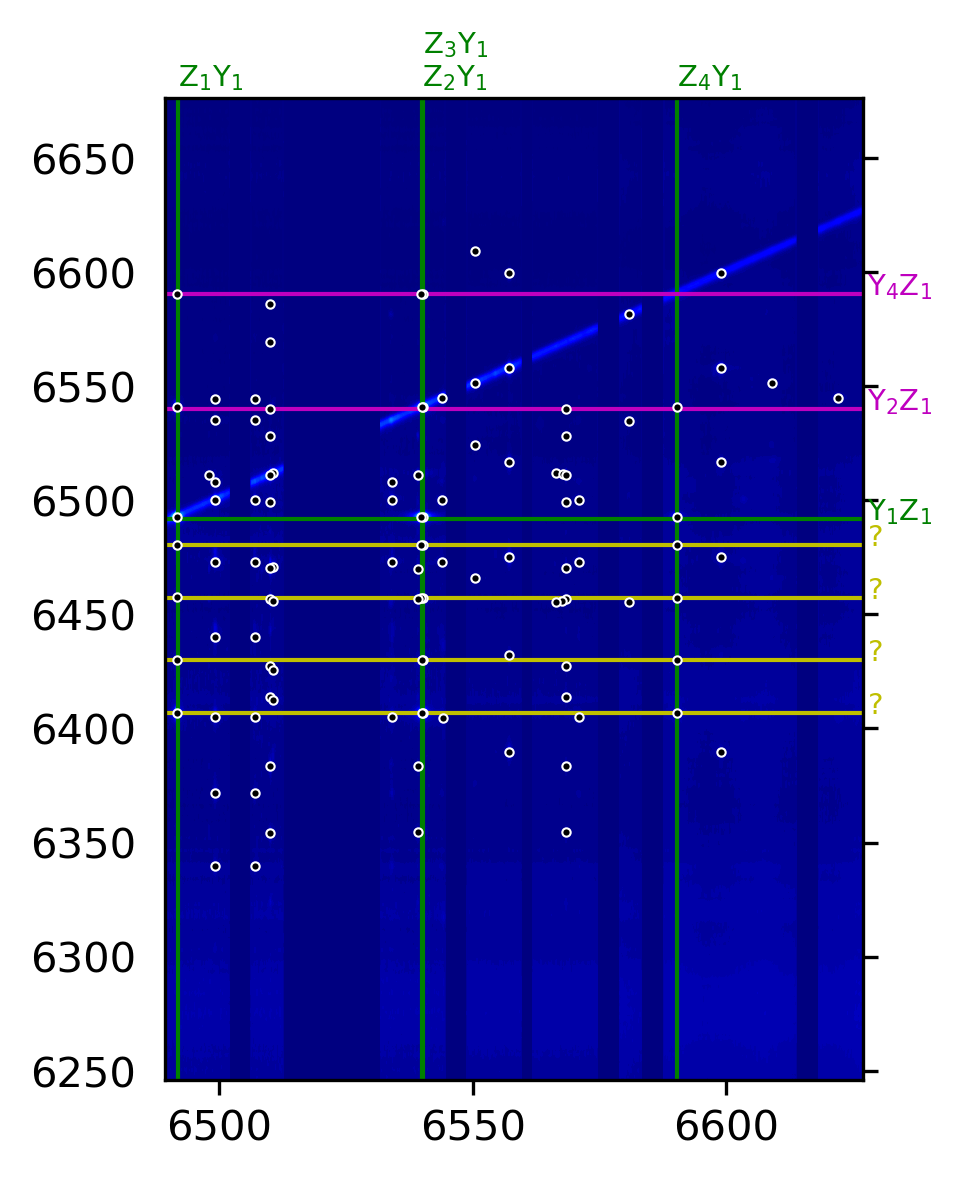
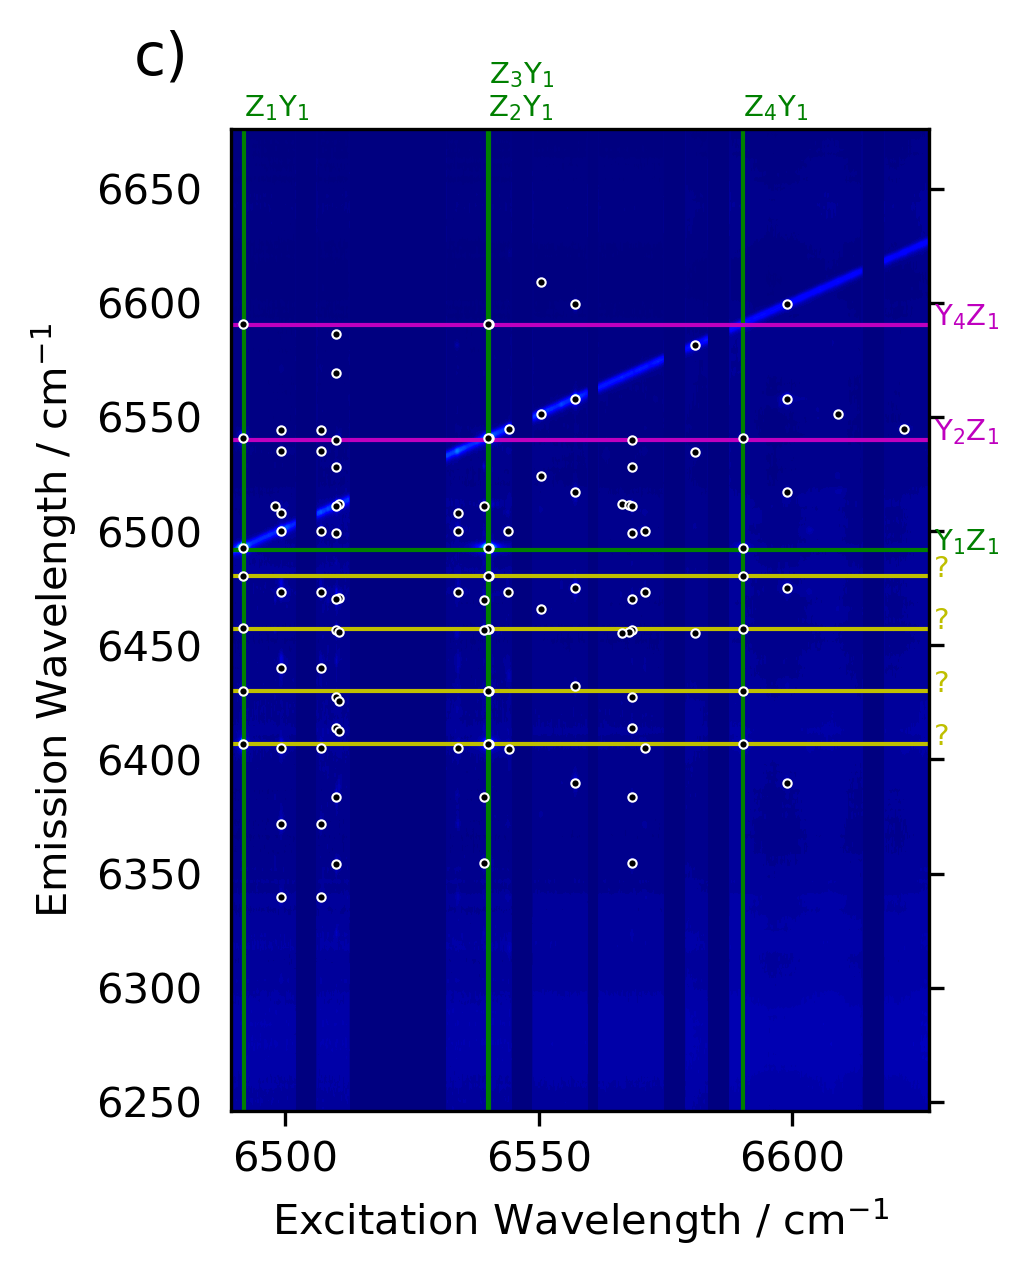
Add axes labels

Changed region(s): [[0.0312, 0.0305, 0.9667, 0.9771], [0.5925, 0.6718, 0.6237, 0.7023]]

diff --git a/JinD.py b/JinD.py
@@ -28,8 +28,6 @@ def prep(folder):
 def plotspec(data, fmt):
     if fmt == "small":
         sm.plot_spectra(data, figsize=(3, 4.25))
-        plt.xlabel("")
-        plt.ylabel("")
     else:
         sm.plot_spectra(data, figsize=(6, 8))
 
@@ -110,6 +108,20 @@ if figtype == "spectrum":
     peaks, spectra = prep(folder)
     plotspec(spectra, size)
     save("Figures/JinD_spectrum_%dK.png" % temp, resolution)
+    plt.show()
+
+##################################################
+if figtype == "sidebands":
+    temp = temps[int(sys.argv[2])]
+    folder = folders[int(sys.argv[2])]
+    size = sys.argv[3]
+    resolution = sys.argv[4]
+
+    peaks, spectra = prep(folder)
+    plotspec(spectra, size)
+    plt.xlim((6564, 6573))
+    plt.ylim((6460, 6520))
+    save("Figures/JinD_sidebands_%dK.png" % temp, resolution)
     plt.show()
 
 ##################################################
@@ -518,6 +530,15 @@ else:
                 elp.plot_emline(3, 1)
                 elp.plot_emline(1, 2, color=1)
                 elp.plot_emline(2, 2, color=1)
+
+        if temp == 13:
+            plt.text(6470, 6700, "a)", color="k", fontsize=14)
+        if temp == 32:
+            plt.text(6470, 6700, "b)", color="k", fontsize=14)
+        if temp == 60:
+            plt.text(6470, 6700, "c)", color="k", fontsize=14)
+        if temp == 106:
+            plt.text(6470, 6700, "d)", color="k", fontsize=14)
 
         sm.plot_peaks(peaks)
         save("Figures/JinD_site%d_%dK.png" % (site, temp), resolution)

diff --git a/lineanalysis.py b/lineanalysis.py
@@ -14,8 +14,6 @@ class EnergyLevelsPlot:
     def generate_figure(self, fmt):
         if fmt == "small":
             sm.plot_spectra(self.data, figsize=(3, 4.25))
-            plt.xlabel("")
-            plt.ylabel("")
         elif fmt == "large":
             sm.plot_spectra(self.data, figsize=(6, 8.5))
         self.fmt = fmt
